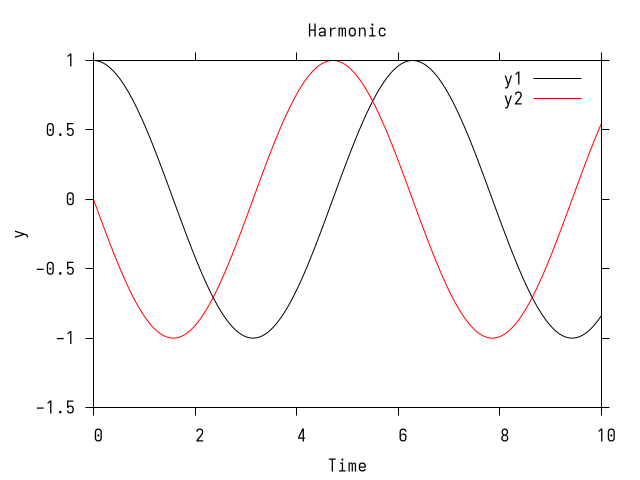
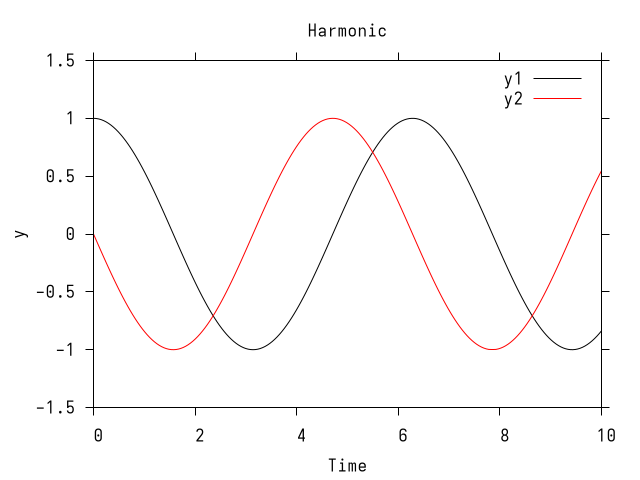
Homework 5

diff --git a/homework/ODE/main.cc b/homework/ODE/main.cc
@@ -132,5 +132,56 @@ int main () {
     auto [x_rel, y_rel] = driver(f_rel, start, end, y_init_rel);
     save_data(x_rel, y_rel, "data/rel.data");
 
+    // --- Part C ---
+    // Three body problem with G=m1=m2=m3=1
+
+    auto f_three = [](double t, const vector& z) -> vector {
+        /* z consists of 3*2 positions and 3*2 velocities 
+           z = {x1, y1, x2, y2, x3, y3, x1', y1', x2', y2', x3', y3'} 
+        dzdt = {vx1, vy1, vx2, vy2, vx3, vy3, vx1', vy1', vx2', vy2', vx3', vy3'}*/
+        vector dzdt(12);
+        for(size_t i=0; i<7; i++) dzdt[i] = z[i+6];
+
+        // calculate distance
+        double dx12 = z[2] - z[0], dy12 = z[3] - z[1];
+        double dx13 = z[4] - z[0], dy13 = z[5] - z[1];
+        double dx23 = z[4] - z[2], dy23 = z[5] - z[3];
+
+        // distance
+        double r12 = std::pow(dx12*dx12 + dy12*dy12, 1.5);
+        double r13 = std::pow(dx13*dx13 + dy13*dy13, 1.5);
+        double r23 = std::pow(dx23*dx23 + dy23*dy23, 1.5);
+
+        // Body 1 acceleration
+        dzdt[6] = (dx12 / r12) + (dx13 / r13);
+        dzdt[7] = (dy12 / r12) + (dy13 / r13);
+
+        // Body 2 acceleration 
+        dzdt[8] = (-dx12 / r12) + (dx23 / r23);
+        dzdt[9] = (-dy12 / r12) + (dy23 / r23);
+
+        // Body 3 acceleration 
+        dzdt[10] = (-dx13 / r13) + (-dx23 / r23);
+        dzdt[11] = (-dy13 / r13) + (-dy23 / r23);
+
+        return dzdt;    
+    };
+
+    // From GAI:
+    vector y_init_3b(12);
+    // Body 1
+    y_init_3b[0] = 0.97000436;  y_init_3b[1] = -0.24308753; // X, Y
+    y_init_3b[6] = 0.46620368;  y_init_3b[7] = 0.43236573;  // Vx, Vy
+    // Body 2
+    y_init_3b[2] = -0.97000436; y_init_3b[3] = 0.24308753;
+    y_init_3b[8] = 0.46620368;  y_init_3b[9] = 0.43236573;
+    // Body 3
+    y_init_3b[4] = 0.0;         y_init_3b[5] = 0.0;
+    y_init_3b[10] = -0.93240737; y_init_3b[11] = -0.86473146;
+
+    // VERY tight tolerances required because RK12 is low-order and 3-body is highly unstable!
+    auto [x_3b, y_3b] = driver(f_three, 0.0, 2.0, y_init_3b);
+    save_data(x_3b, y_3b, "data/three_body.data");
+
     return 0;
 }
